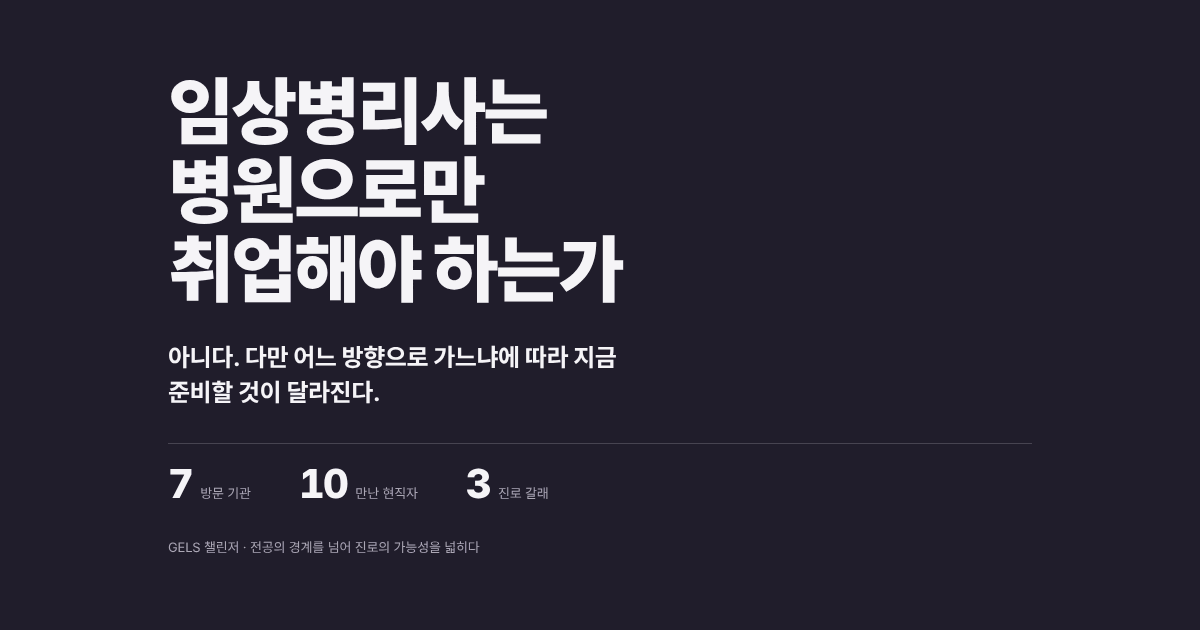
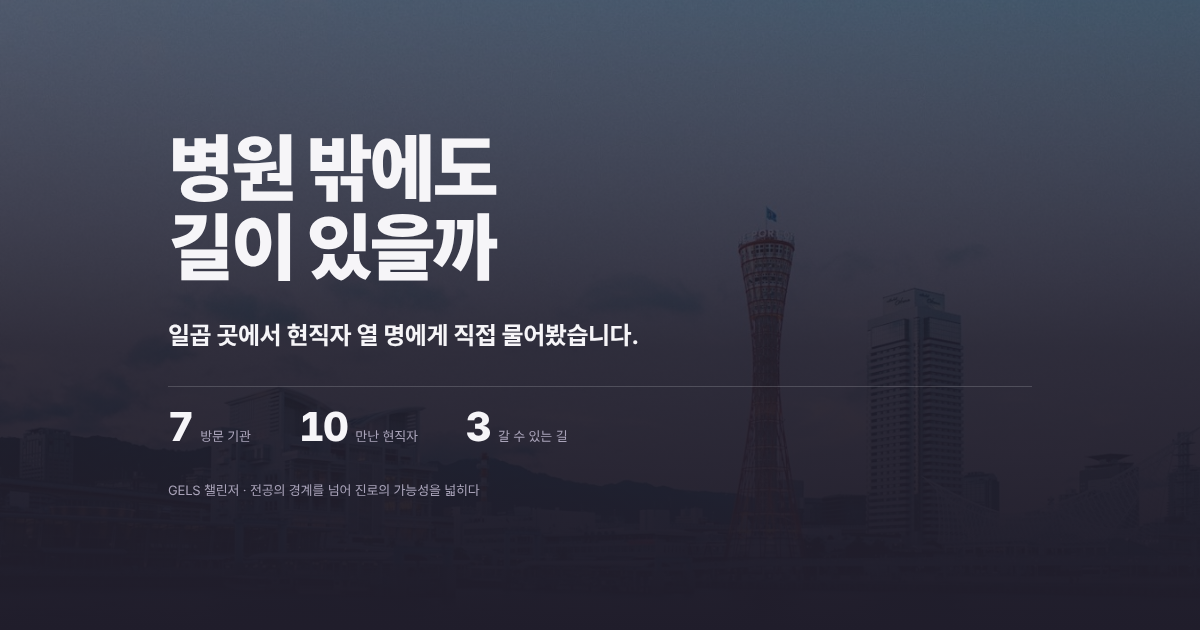
New hero title: 병원 밖에도 길이 있을까; refresh share image
Claude-Session: https://claude.ai/code/session_01MNdSWQ6PLtWJjkWi1nsfX7

diff --git a/data.js b/data.js
@@ -14,14 +14,14 @@ const DATA = {
   site: {
     url: 'https://25dbridge.github.io/dbridge/',
     title: '임상병리사의 바이오 진출 로드맵',
-    shareText: '임상병리사는 병원으로만 취업해야 하는가 — 동서대 임상병리학과 D-Bridge가 일본·국내 일곱 곳을 다녀와 정리한 진로 로드맵'
+    shareText: '병원 밖에도 길이 있을까 — 동서대 임상병리학과 D-Bridge가 일본·국내 일곱 곳을 다녀와 정리한 진로 로드맵'
   },
 
   /* ─── 첫 화면 ─────────────────────────────────────────────── */
   hero: {
-    question: '임상병리사는\n병원으로만\n취업해야 하는가',
-    answer: '아니다. 다만 어느 방향으로 가느냐에 따라 지금 준비할 것이 달라진다.',
-    lead: '임상병리학과 2학년 다섯 명이 2026년 여름, 일본 고베와 국내 대전·오송의 일곱 곳에서 현직자 열 명을 만나 정리했습니다.',
+    question: '병원 밖에도\n길이 있을까',
+    answer: '일곱 곳에서 현직자 열 명에게 직접 물어봤습니다.',
+    lead: '임상병리학과 2학년 다섯 명이 2026년 여름, 일본 고베와 국내 대전·오송을 다녀와 정리했습니다.',
     stats: [
       { value: 7,  label: '방문 기관' },
       { value: 10, label: '만난 현직자' },

diff --git a/index.html b/index.html
@@ -10,7 +10,7 @@
 <meta name="color-scheme" content="light dark">
 
 <meta property="og:type" content="website">
-<meta property="og:title" content="임상병리사는 병원으로만 취업해야 하는가 · D-Bridge">
+<meta property="og:title" content="병원 밖에도 길이 있을까 · D-Bridge">
 <meta property="og:description" content="일본·국내 일곱 곳, 현직자 열 명. 임상병리학과 2학년 다섯 명이 정리한 바이오 진출 로드맵">
 <meta property="og:locale" content="ko_KR">
 <meta property="og:url" content="https://25dbridge.github.io/dbridge/">
@@ -35,7 +35,7 @@
 
 <link rel="preconnect" href="https://cdn.jsdelivr.net" crossorigin>
 <link rel="stylesheet" href="https://cdn.jsdelivr.net/gh/orioncactus/pretendard@v1.3.9/dist/web/variable/pretendardvariable-dynamic-subset.css">
-<link rel="stylesheet" href="style.css?v=310">
+<link rel="stylesheet" href="style.css?v=311">
 </head>
 
 <body>
@@ -388,8 +388,8 @@
   </li>
 </template>
 
-<script src="data.js?v=310"></script>
-<script src="common.js?v=310"></script>
-<script src="script.js?v=310" defer></script>
+<script src="data.js?v=311"></script>
+<script src="common.js?v=311"></script>
+<script src="script.js?v=311" defer></script>
 </body>
 </html>

diff --git a/interview.html b/interview.html
@@ -33,7 +33,7 @@
 
 <link rel="preconnect" href="https://cdn.jsdelivr.net" crossorigin>
 <link rel="stylesheet" href="https://cdn.jsdelivr.net/gh/orioncactus/pretendard@v1.3.9/dist/web/variable/pretendardvariable-dynamic-subset.css">
-<link rel="stylesheet" href="style.css?v=310">
+<link rel="stylesheet" href="style.css?v=311">
 </head>
 
 <body class="page-interview">
@@ -121,8 +121,8 @@
   </li>
 </template>
 
-<script src="data.js?v=310"></script>
-<script src="common.js?v=310"></script>
-<script src="interview.js?v=310" defer></script>
+<script src="data.js?v=311"></script>
+<script src="common.js?v=311"></script>
+<script src="interview.js?v=311" defer></script>
 </body>
 </html>
